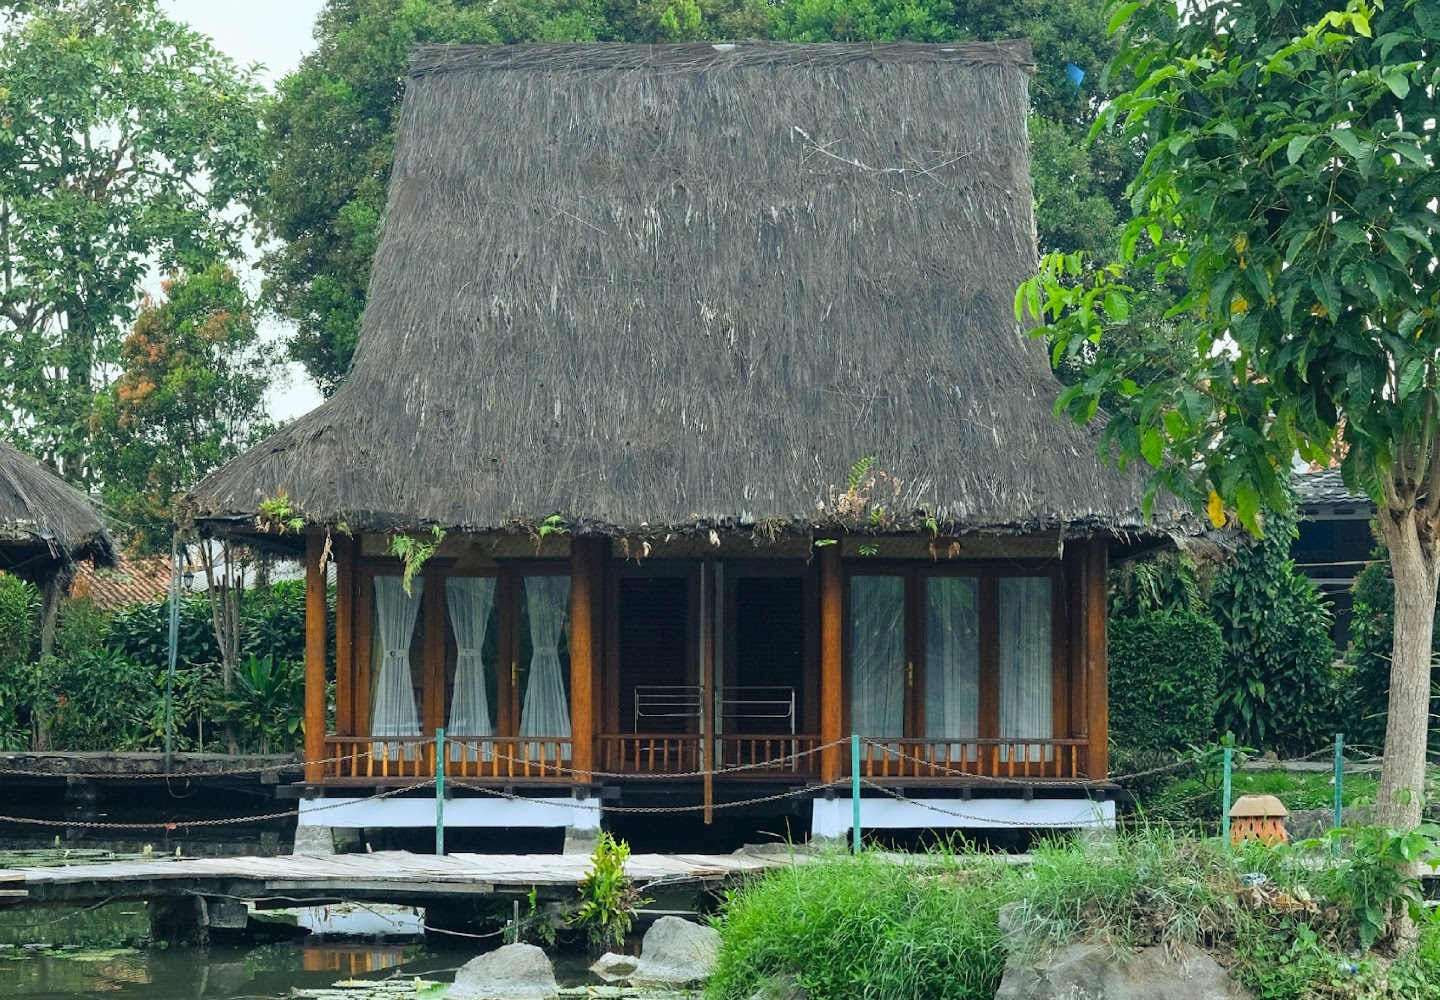
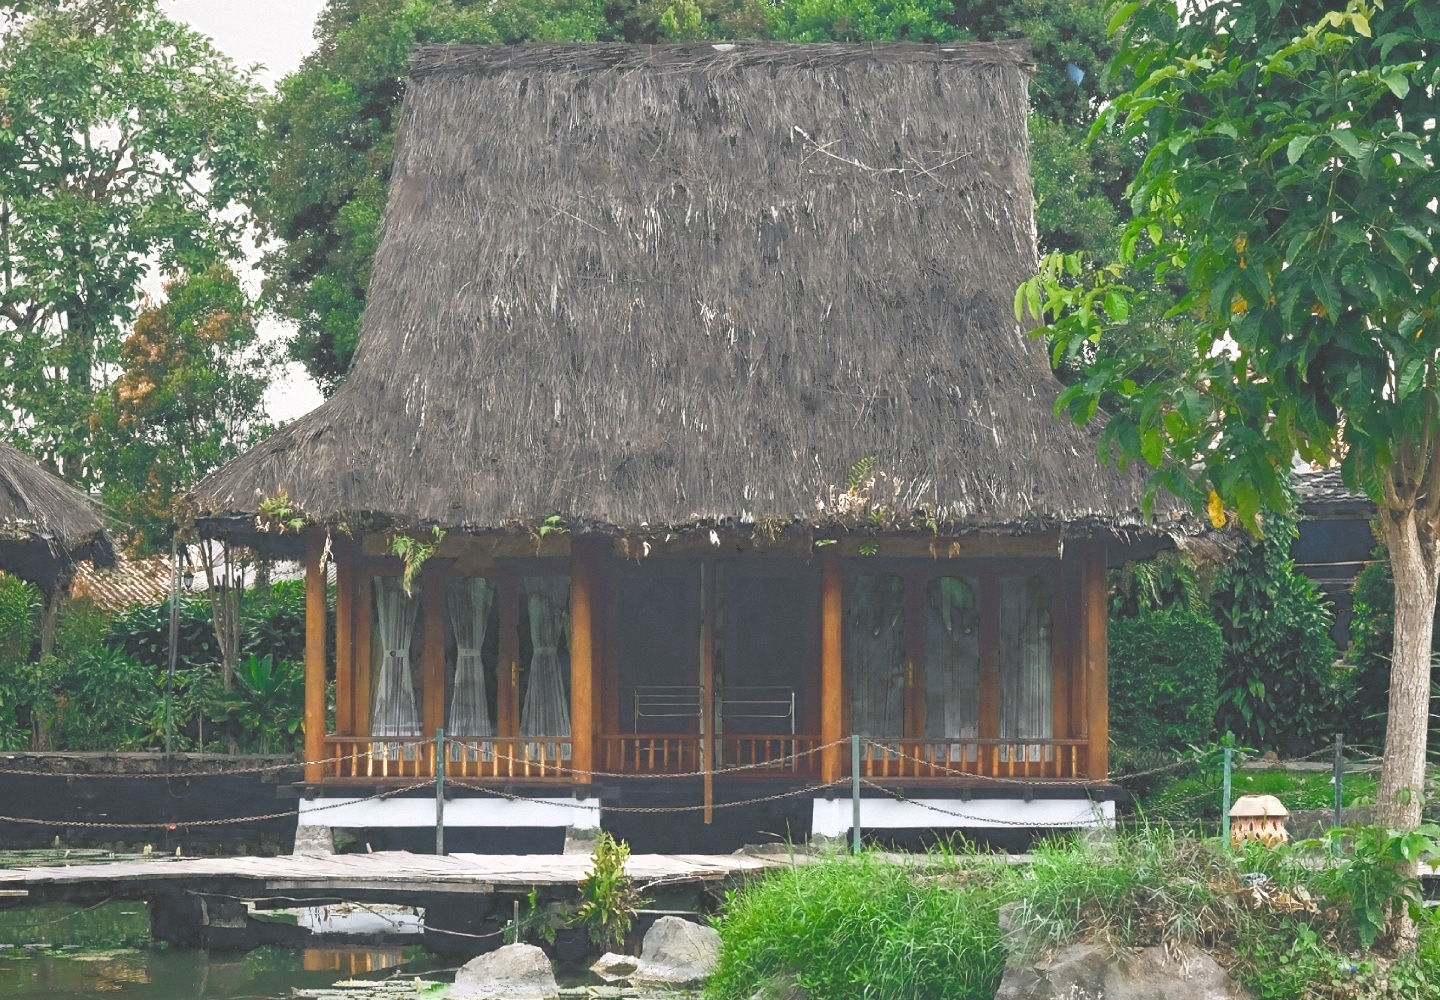
Hero gaya Bambu: gambar di atas tanpa header, header putih di bawah hero lalu sticky; HP slide statement utuh auto-height; foto desktop di-toning; Booking ke DIP; bar bawah diganti tombol WA bulat

diff --git a/src/styles/situs.css b/src/styles/situs.css
@@ -54,14 +54,15 @@ a[href^="tel"] { white-space: nowrap; }
 :focus-visible { outline: 2px solid var(--pohon); outline-offset: 3px; }
 
 /* ---------- Header ---------- */
-.hdr { position: sticky; top: 0; z-index: 20; background: var(--krem); border-bottom: 1px solid var(--garis); }
+.hdr { position: sticky; top: 0; z-index: 20; background: #fff; border-bottom: 1px solid var(--garis); }
+.hdr .kiri { justify-self: start; display: flex; align-items: center; gap: clamp(12px, 2.4vw, 24px); }
 .hdr-in { display: grid; grid-template-columns: 1fr auto 1fr; align-items: center; height: 60px; padding: 0 var(--pad); }
 .hdr button, .hdr .lbl-a { justify-self: start; display: inline-flex; align-items: center; height: 44px; font-size: .8rem !important; background: none; border: 0; color: var(--tinta); cursor: pointer; padding: 12px 0; min-height: 44px; font: 500 .75rem/1 var(--sans); letter-spacing: .2em; text-transform: uppercase; text-decoration: none; }
 .hdr .kanan { justify-self: end; display: flex; align-items: center; gap: clamp(10px, 2.4vw, 22px); }
 .bahasa { display: flex; border: 1px solid var(--tinta); border-radius: 999px; overflow: hidden; }
 .bahasa a { display: inline-flex; align-items: center; justify-content: center; min-width: 40px; min-height: 32px; padding: 0 8px; font: 600 .72rem/1 var(--sans); letter-spacing: .12em; color: var(--tinta); text-decoration: none; }
 .bahasa a[aria-current] { background: var(--tinta); color: var(--krem); }
-@media (max-width: 767px) { .hdr .pesan { display: none; } .logo img { height: 34px; } }
+@media (max-width: 767px) { .logo img { height: 30px; } .hdr .pesan { font-size: .7rem !important; letter-spacing: .16em; color: var(--alam); font-weight: 600; } .bahasa a { min-width: 28px; min-height: 30px; padding: 0 4px; font-size: .66rem; letter-spacing: .08em; } .hdr .kiri { gap: 10px; } }
 .hdr button { padding: 0 !important; }
 .burger { gap: 10px; }
 .burger svg { flex: none; }
@@ -75,7 +76,7 @@ a[href^="tel"] { white-space: nowrap; }
 .logo img { height: 40px; width: auto; }
 
 /* Menu layar penuh — popover native, nol JavaScript */
-.menu { inset: 0; width: 100%; height: 100%; max-width: none; max-height: none; margin: 0; border: 0; padding: 0; background: var(--krem); color: var(--tinta); }
+.menu { inset: 0; width: 100%; height: 100%; max-width: none; max-height: none; margin: 0; border: 0; padding: 0; background: #fff; color: var(--tinta); }
 .menu-in { min-height: 100%; display: flex; flex-direction: column; padding: 0 var(--pad) 40px; }
 .menu-top { display: flex; justify-content: space-between; align-items: center; height: 60px; }
 .menu-top button { background: none; border: 0; color: var(--tinta); font: 500 .75rem/1 var(--sans); letter-spacing: .2em; text-transform: uppercase; min-height: 44px; cursor: pointer; }
@@ -86,17 +87,20 @@ a[href^="tel"] { white-space: nowrap; }
 .menu .kecil a { text-decoration: none; }
 
 /* ---------- Hero ---------- */
-/* HP: slide statement tampil utuh 4:5, judul HTML disembunyikan (sudah ada di gambar) */
-.hero { position: relative; aspect-ratio: 4 / 5; overflow: hidden; background: #b9c2bd; }
-.hero picture, .hero picture img { position: absolute; inset: 0; width: 100%; height: 100%; object-fit: cover; }
+/* Hero gaya Bambu Indah: gambar dulu, header ada di bawahnya lalu menempel saat scroll */
+/* HP: slide statement utuh, tinggi ikut gambar (4:5), tanpa crop */
+.hero { position: relative; background: #b9c2bd; }
+.hero picture { display: block; }
+.hero picture img { display: block; width: 100%; height: auto; aspect-ratio: 4 / 5; }
 .hero-tx { position: absolute; width: 1px; height: 1px; overflow: hidden; clip: rect(0 0 0 0); white-space: nowrap; }
-/* Desktop: foto penuh + logogram + judul putih di tengah */
+/* Desktop: foto (sudah di-toning) penuh ±70% layar + logogram + judul putih */
 @media (min-width: 768px) {
-  .hero { aspect-ratio: auto; height: min(calc(100svh - 60px), 62vw); min-height: 520px; max-height: 1000px; }
-  .hero::after { content: ""; position: absolute; inset: 0; background: rgba(10, 30, 25, .32); }
-  .hero-tx { position: absolute; inset: 0; z-index: 1; width: auto; height: auto; overflow: visible; clip: auto; white-space: normal; display: flex; flex-direction: column; align-items: center; justify-content: center; text-align: center; padding: 0 var(--pad); color: var(--krem); }
+  .hero { height: max(480px, 70svh); max-height: 980px; overflow: hidden; }
+  .hero picture img { height: 100%; aspect-ratio: auto; object-fit: cover; }
+  .hero::after { content: ""; position: absolute; inset: 0; background: rgba(0, 0, 0, .22); }
+  .hero-tx { position: absolute; inset: 0; z-index: 1; width: auto; height: auto; overflow: visible; clip: auto; white-space: normal; display: flex; flex-direction: column; align-items: center; justify-content: center; text-align: center; padding: 0 var(--pad); color: #fff; }
   .hero-mark { width: clamp(44px, 4vw, 64px); height: auto; margin-bottom: 18px; }
-  .hero h1 { font-size: clamp(3rem, 6.4vw, 6.4rem); line-height: 1; max-width: 18ch; color: var(--krem); text-shadow: 0 2px 28px rgba(0,0,0,.45); }
+  .hero h1 { font-size: clamp(3rem, 6.4vw, 6.4rem); line-height: 1; max-width: 18ch; color: #fff; text-shadow: 0 2px 28px rgba(0,0,0,.35); }
 }
 
 /* ---------- Video udara ---------- */
@@ -235,7 +239,7 @@ a[href^="tel"] { white-space: nowrap; }
 .penutup { text-align: center; padding: clamp(72px, 10vw, 130px) var(--pad); }
 .penutup h2 { font-size: clamp(2.2rem, 4.6vw, 3.8rem); max-width: 20ch; margin: 0 auto 30px; }
 .penutup .dua { display: flex; flex-wrap: wrap; justify-content: center; gap: 12px; }
-.ftr { background: var(--putih); color: var(--tinta); border-top: 1px solid var(--garis); padding: 56px var(--pad) calc(32px + var(--bar)); font-size: .92rem; }
+.ftr { background: var(--putih); color: var(--tinta); border-top: 1px solid var(--garis); padding: 56px var(--pad) 32px; font-size: .92rem; }
 .ftr-in { max-width: 1440px; margin: 0 auto; display: grid; gap: 32px; }
 .ftr img { height: 64px; width: auto; }
 .ftr ul { list-style: none; padding: 0; margin: 10px 0 0; display: grid; gap: 6px; }
@@ -245,11 +249,12 @@ a[href^="tel"] { white-space: nowrap; }
 @media (min-width: 900px) { .ftr { padding-bottom: 32px; } .ftr-in { grid-template-columns: 1.4fr 1fr 1fr 1fr; } .ftr .bawah { grid-column: 1 / -1; } }
 
 /* ---------- Bar CTA bawah (HP) ---------- */
-.bar { position: fixed; left: 0; right: 0; bottom: 0; z-index: 30; display: grid; grid-template-columns: 1.3fr 1fr; background: var(--krem); border-top: 1px solid var(--garis); padding-bottom: env(safe-area-inset-bottom); }
-.bar a { display: flex; align-items: center; justify-content: center; gap: 8px; height: var(--bar); font: 600 .78rem/1 var(--sans); letter-spacing: .14em; text-transform: uppercase; text-decoration: none; }
-.bar { grid-template-columns: 1fr 1fr; }
-.bar a:first-child { background: var(--alam); color: var(--krem); }
-.bar a:last-child { color: var(--alam); }
-@media (min-width: 900px) { .bar { display: none; } }
+.wa-float { position: fixed; right: 16px; bottom: calc(16px + env(safe-area-inset-bottom)); z-index: 30; width: 56px; height: 56px; border-radius: 50%; display: grid; place-items: center; background: var(--alam); color: #fff; box-shadow: 0 6px 20px rgba(0,0,0,.18); }
+.wa-float:hover { background: var(--tinta); }
 
 @media (prefers-reduced-motion: reduce) { html { scroll-behavior: auto; } * { transition: none !important; } }
+
+/* HP: logo header lebih kecil (harus setelah .logo img dasar) */
+@media (max-width: 767px) { .logo img { height: 30px; } }
+@media (max-width: 374px) { .logo img { height: 24px; } }
+.hero { border-bottom: 1px solid var(--garis); }
